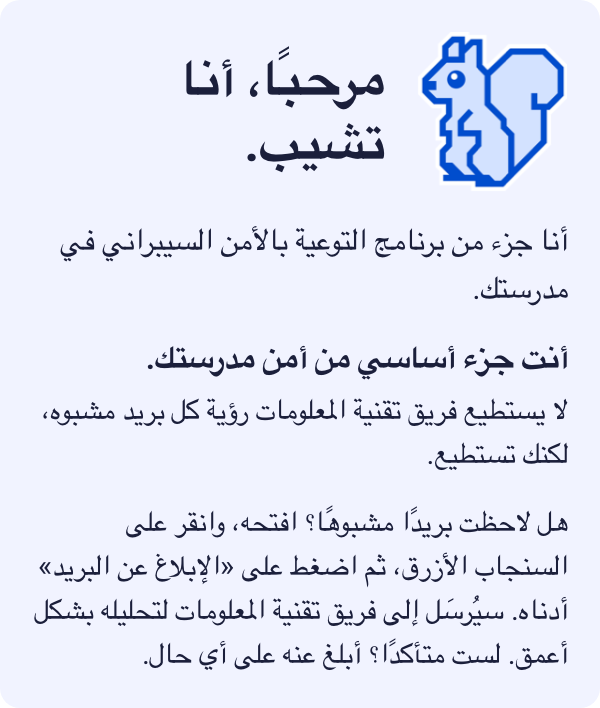
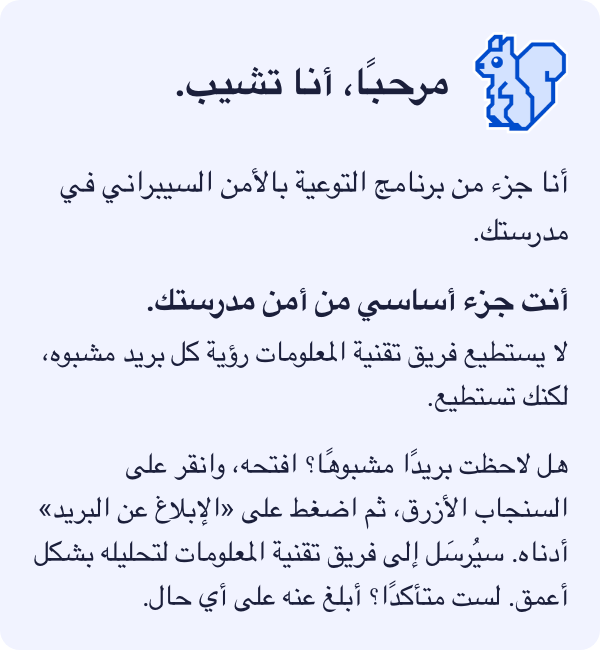
CYB4-2596: smaller squirrel and heading in the Chip block
Squirrel 48x51 (mock 76x80) and heading 20px (mock 26px); rest of the
block keeps the mock's sizes. Re-rendered chip-intro images.

Changed region(s): [[0.06, 0.0308, 0.96, 0.6769], [0.06, 0.6769, 0.96, 0.9538]]

diff --git a/scripts/render-home-images.js b/scripts/render-home-images.js
@@ -61,12 +61,13 @@ p, h2, h3 { margin: 0; }
 </style></head><body><div id="root" dir="${RTL.has(lang) ? "rtl" : "ltr"}">${body}</div></body></html>`;
 }
 
-// The mock's Chip block, at the mock's exact sizes and spacing.
+// The mock's Chip block: mock text sizes and spacing, with a smaller squirrel
+// (48x51, mock 76x80) and heading (20px, mock 26px), as asked in review.
 function chipIntro(m) {
   return `<div style="box-sizing:border-box;padding:16px;border-radius:10px;background:#F1F3FF;display:flex;flex-direction:column;gap:12px">
-  <div style="display:flex;align-items:center;gap:16px">
-    <img src="${CHIP}" alt="" style="width:76px;height:80px;flex:none;object-fit:contain">
-    <h2 style="font-size:26px;line-height:32px;font-weight:700">${esc(m.chipGreeting)}</h2>
+  <div style="display:flex;align-items:center;gap:12px">
+    <img src="${CHIP}" alt="" style="width:48px;height:51px;flex:none;object-fit:contain">
+    <h2 style="font-size:20px;line-height:26px;font-weight:700">${esc(m.chipGreeting)}</h2>
   </div>
   <p style="font-size:16px;line-height:24px">${esc(m.chipIntro)}</p>
   <div style="display:flex;flex-direction:column;gap:4px">

diff --git a/README.md b/README.md
@@ -114,8 +114,8 @@ The home card (`buildHomeCard()` in `code.gs`) follows the "Chip Reporting
 Panel" mock attached to CYB4-2596, top to bottom:
 
 1. Chip block: squirrel image + "Hi, I'm Chip.", then the program copy
-   (`home.*` keys in `i18n.gs`). Rendered at the mock's exact sizes (76x80
-   squirrel, 26px heading, 15-16px text).
+   (`home.*` keys in `i18n.gs`). Rendered with the mock's text sizes (15-16px)
+   and spacing, and a smaller squirrel (48x51) and heading (20px).
 2. "See an overview of CyberNut": a thumbnail with a play button. Clicking it
    plays the video as a GIF in the panel (see **Video** below).
 3. **Report Email** (only when an email is open) and **How reporting works**
